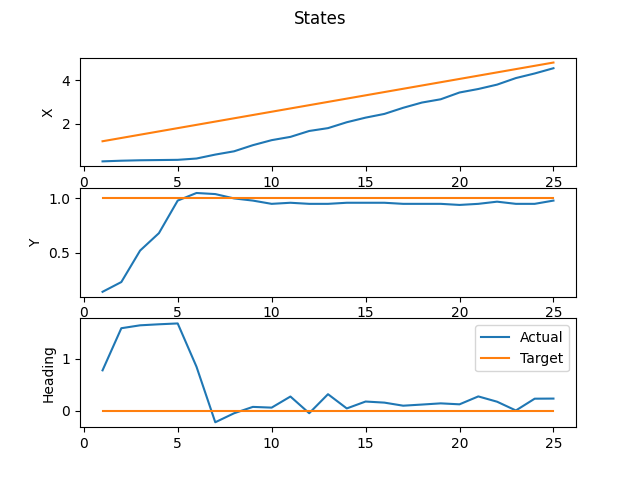
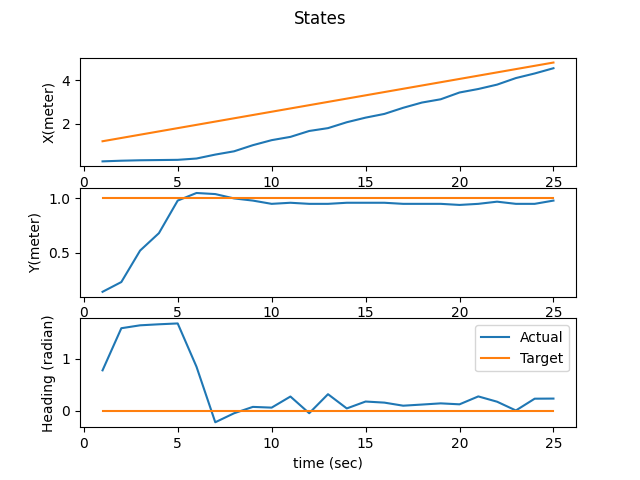
-

diff --git a/Project/Line/plot.py b/Project/Line/plot.py
@@ -8,7 +8,7 @@ import math
 
 def plot():
 
-  n=np.arange(1,25)
+  n=np.arange(1,26)
 
 
 
@@ -41,18 +41,21 @@ def plot():
   legend_drawn_flag = True 
   plt.legend(["Actual", "Target"], loc=0, frameon=legend_drawn_flag)
   plt.suptitle("Tracking")
+  plt.ylabel('Y(meter)')
+  plt.xlabel('X(meter)')
   plt.savefig('Tracking.png')
 
   plt.figure(2)
   plt.subplot(311)
   plt.plot(n,x1,n,x2)
-  plt.ylabel('X')
+  plt.ylabel('X(meter)')
   plt.subplot(312)
   plt.plot(n,y1,n,y2)
-  plt.ylabel('Y')
+  plt.ylabel('Y(meter)')
   plt.subplot(313)
   plt.plot(n,theta1,n,theta2)
-  plt.ylabel('Heading')
+  plt.ylabel('Heading (radian)')
+  plt.xlabel('time (sec)')
 
   location = 0
   legend_drawn_flag = True 
